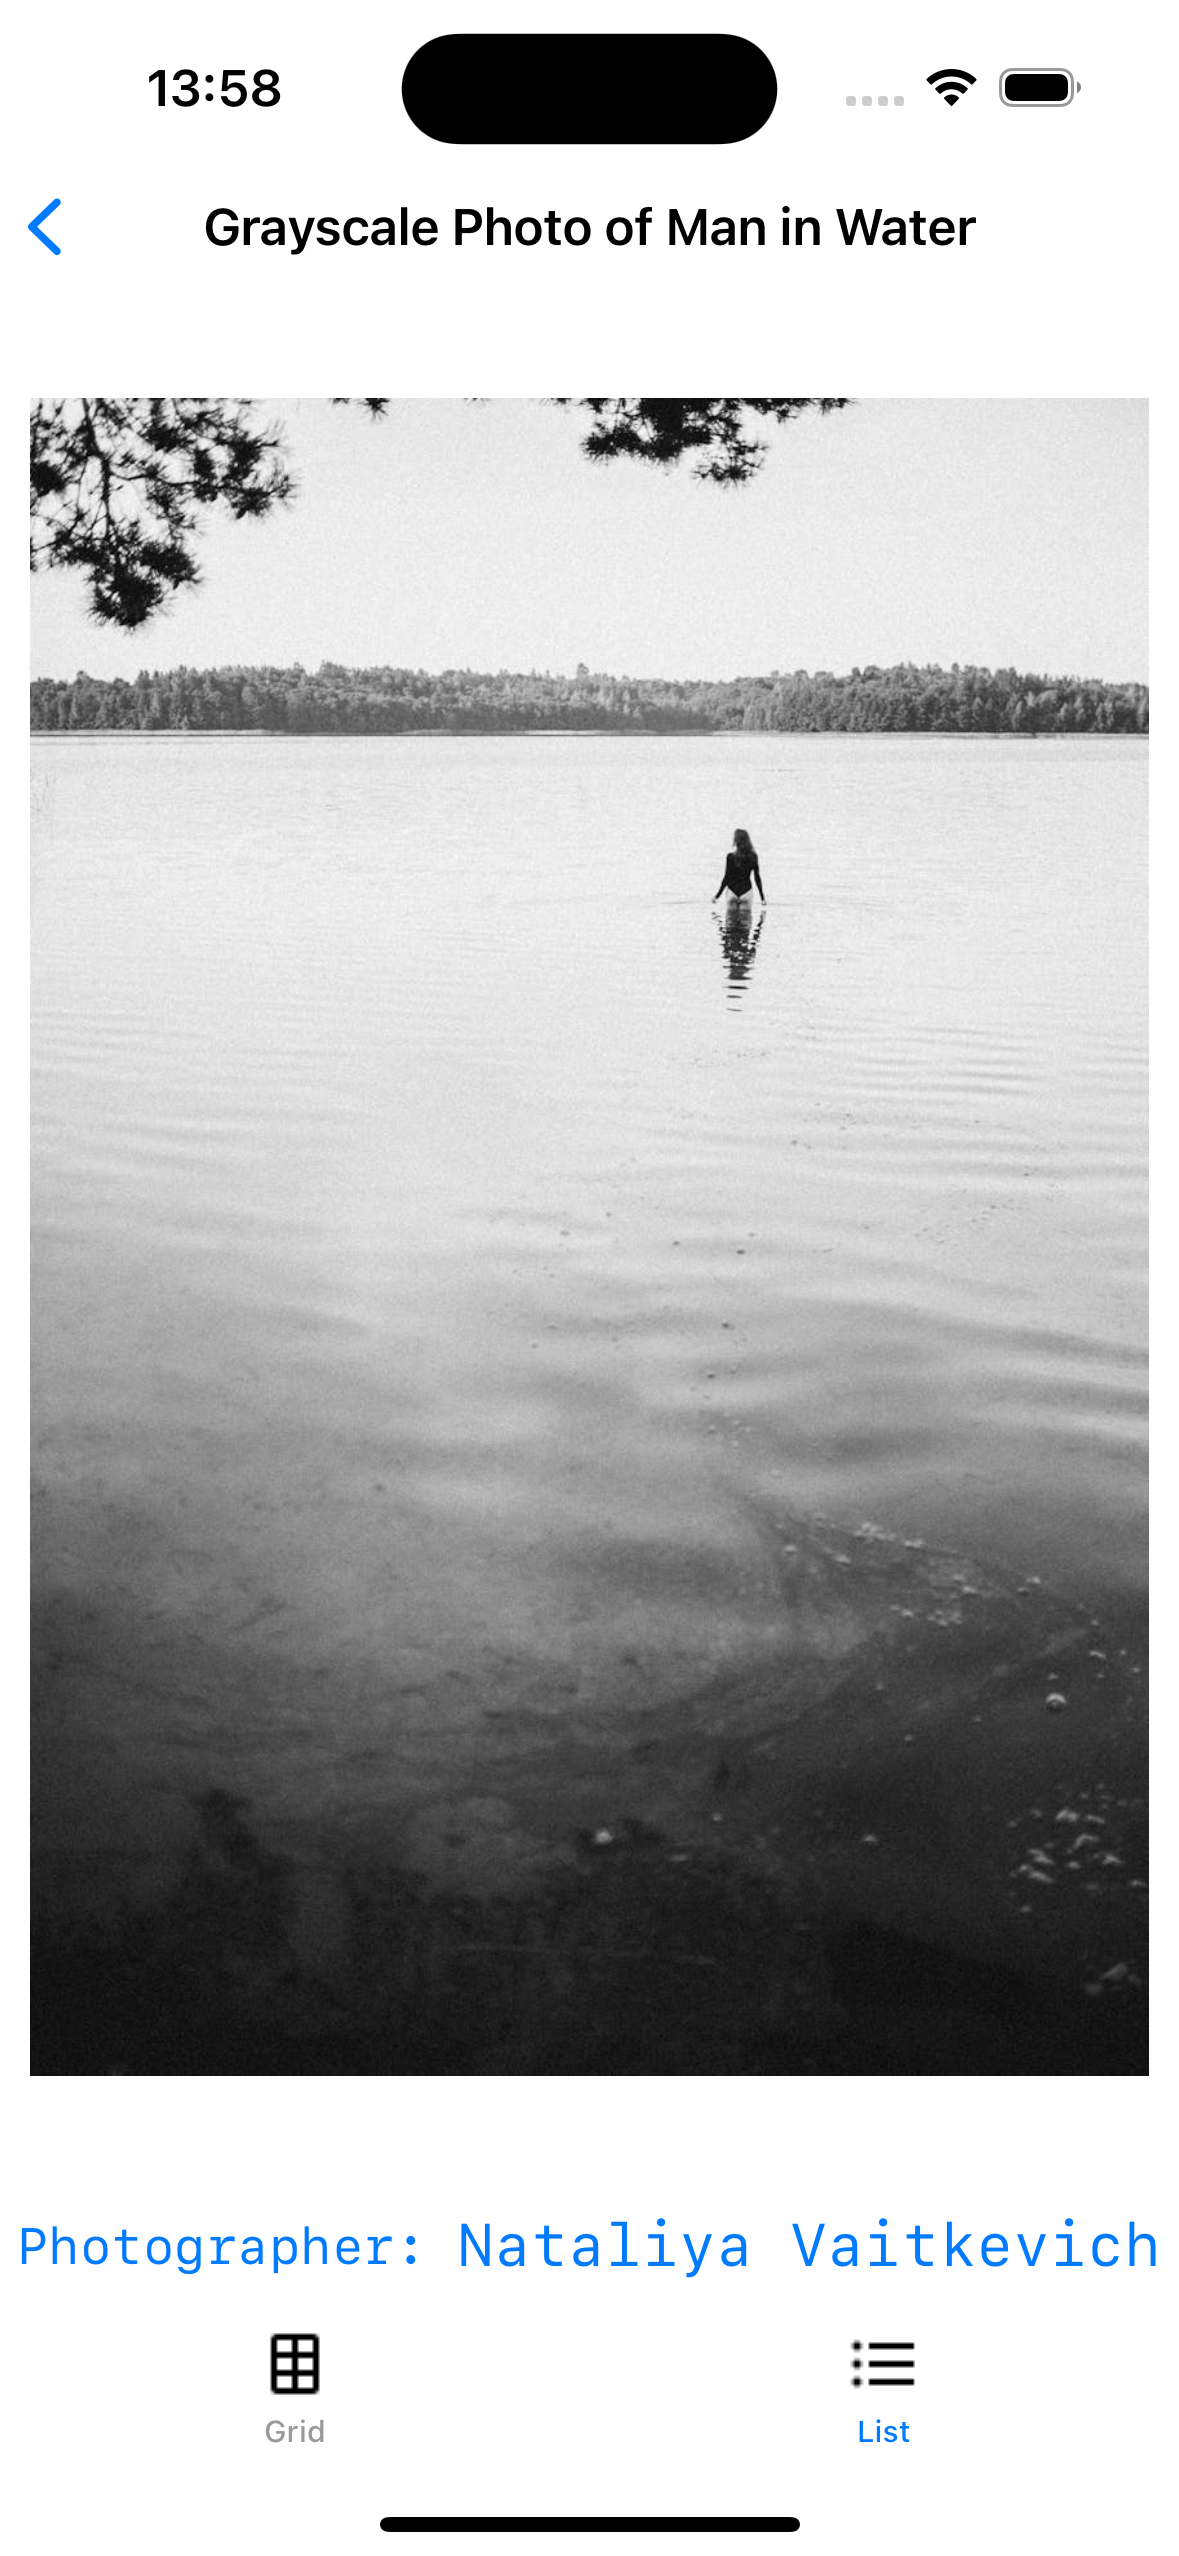
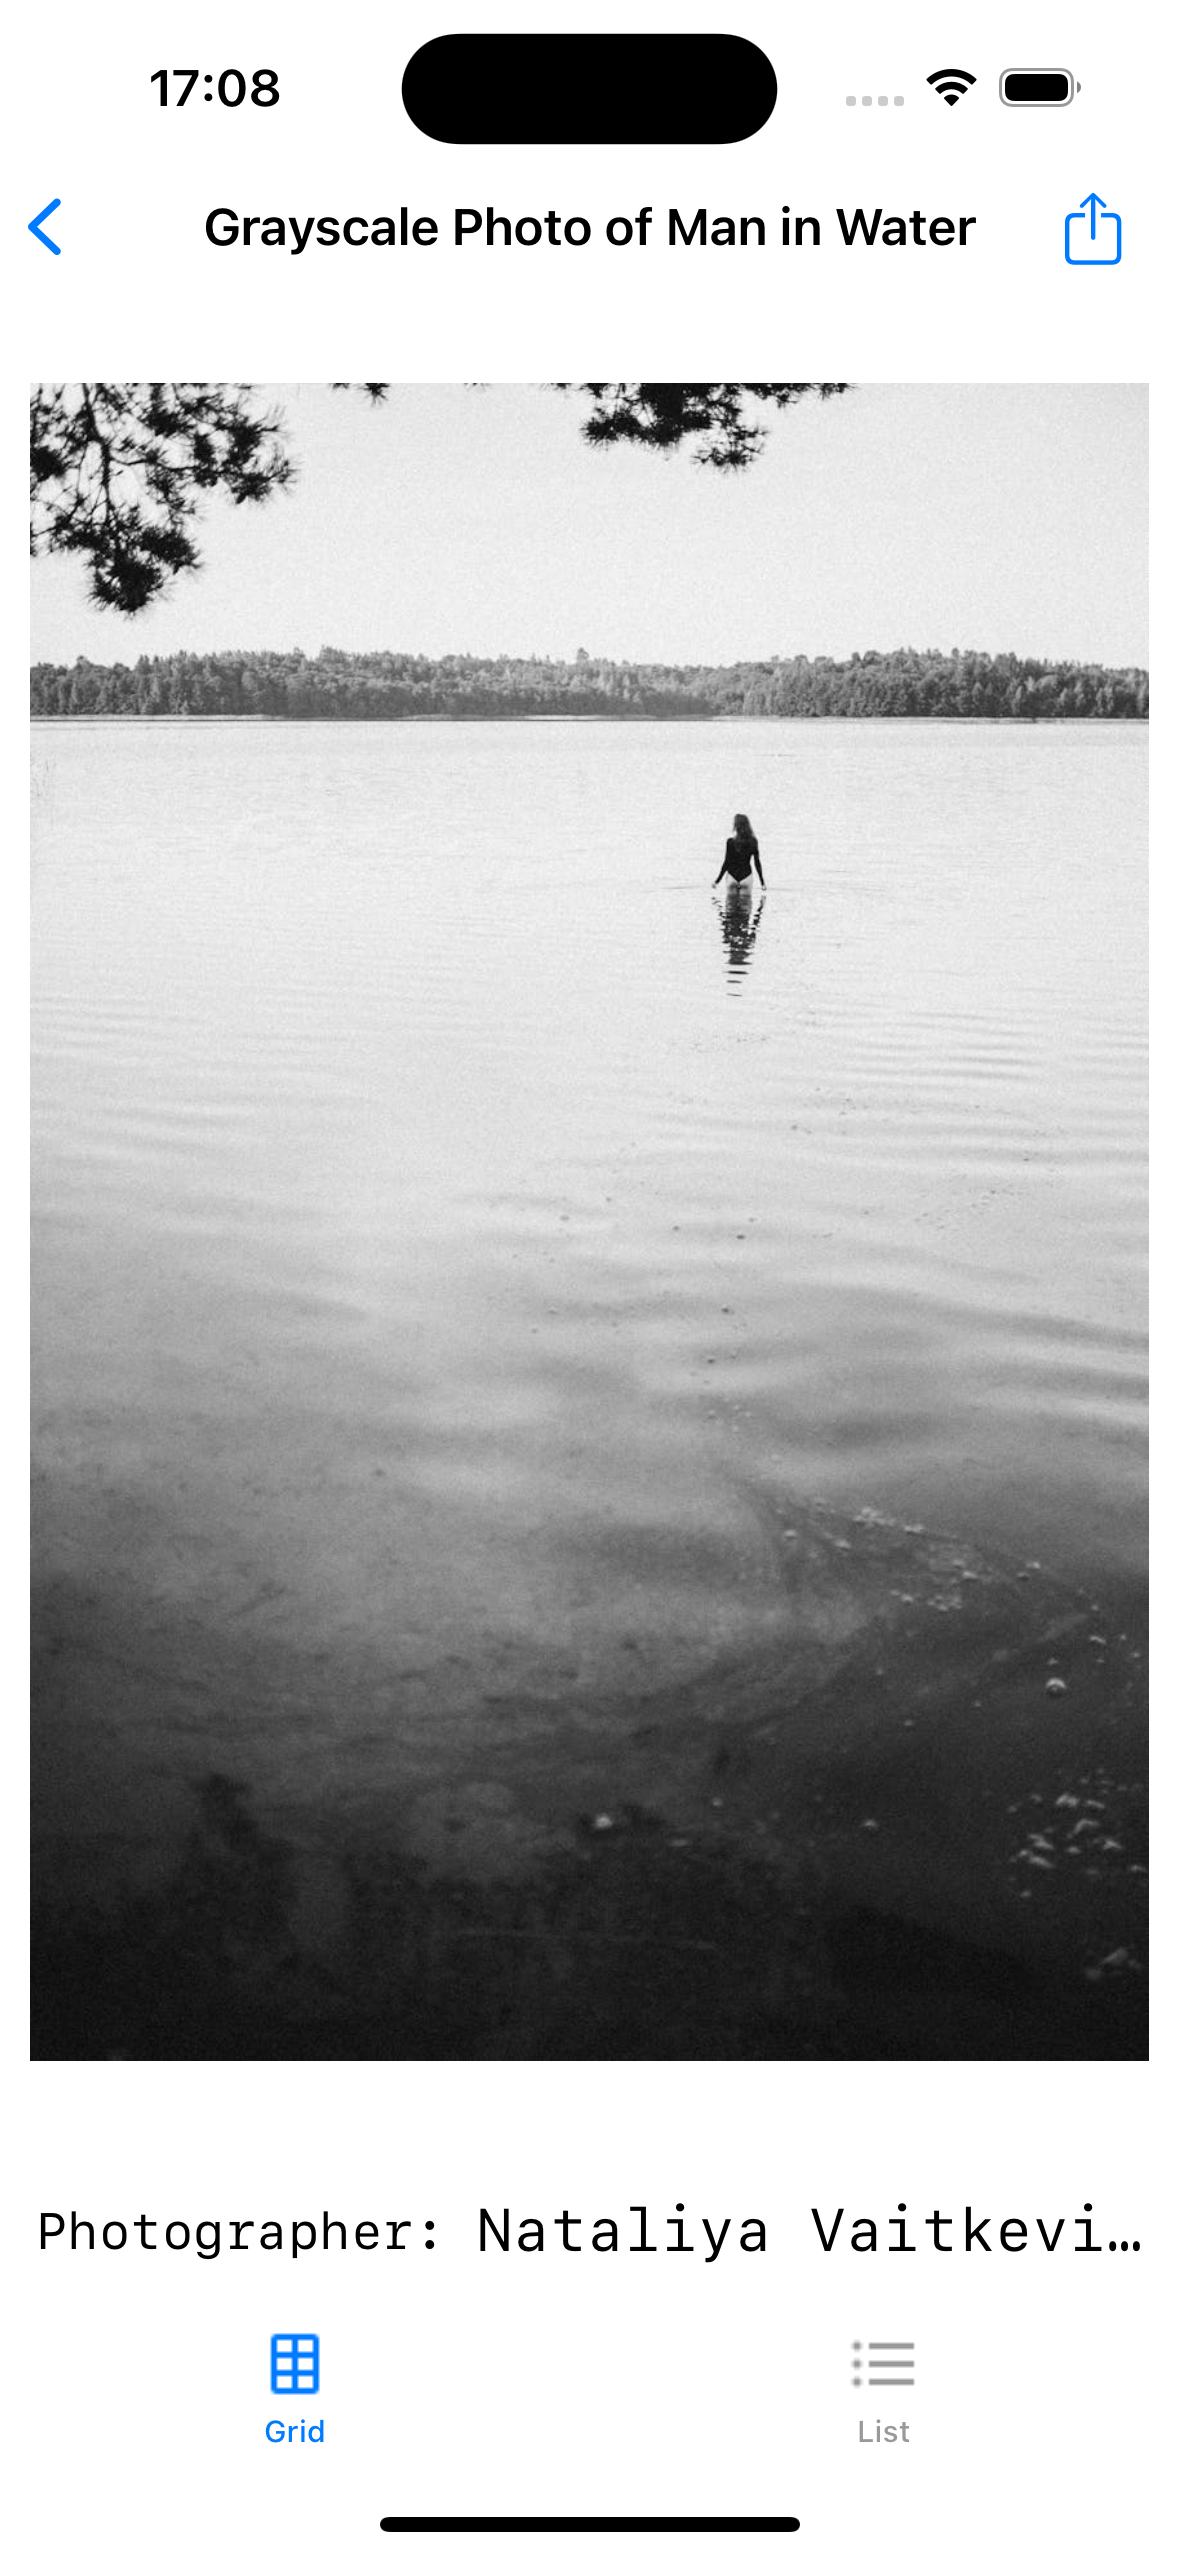
README edited

diff --git a/README.md b/README.md
@@ -6,7 +6,7 @@
 * Приложение состоит из таббара с двумя вкладками;
 * В первой вкладке распологается экран с полем для ввода ключевого слова, кнопкой для активации поиска и списком изображений, представленным с помощью LazyVGrid;
 * Во второй вкладке распологается экран с полем для ввода ключевого слова и списком изображений, представленным с помощью List;
-* По нажатию на выбранную картинку(ячейку) пользователь переходит на экран с картинкой в большем размере и именем фотографа;
+* По нажатию на выбранную картинку(ячейку) пользователь переходит на экран с картинкой, где указано именя фотографа и есть возможность поделиться ссылкой на изображение;
 
 ## Скриншоты
 
